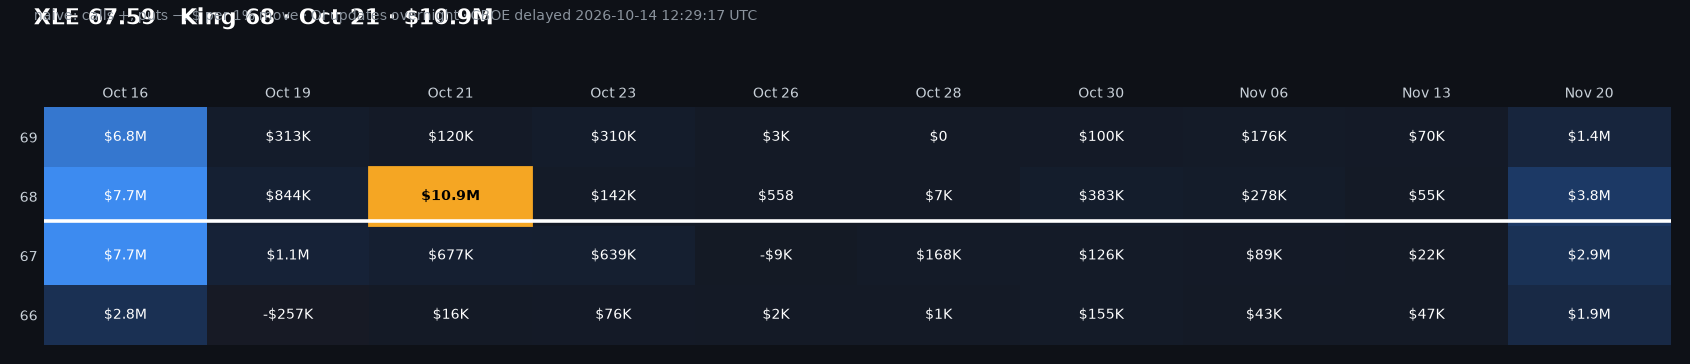
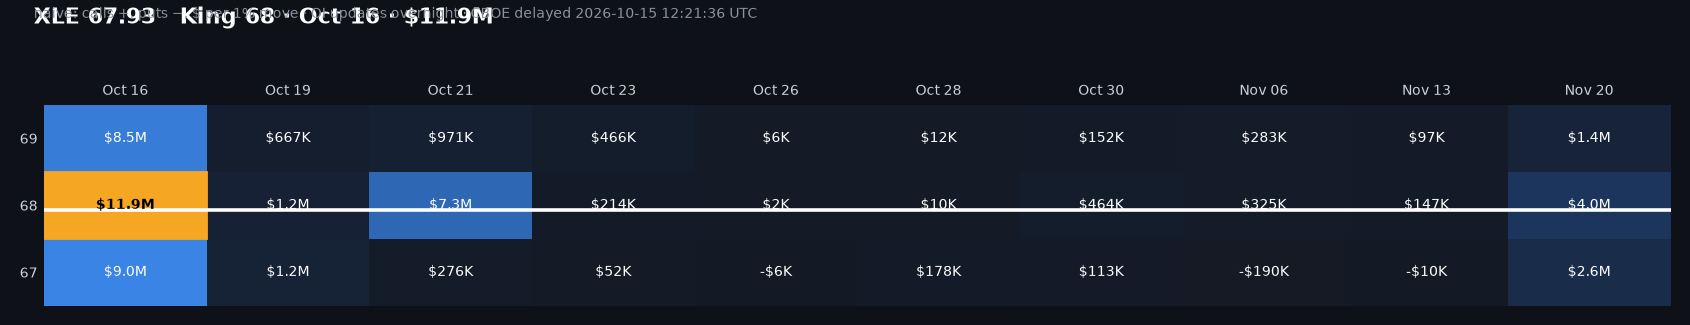
GEX 2026-10-15

diff --git a/index.html b/index.html
@@ -2,9 +2,9 @@
 <title>GEX dashboard</title><style>body{background:#0e1117;color:#c9d1d9;font:14px system-ui,sans-serif;margin:0;padding:12px;max-width:1100px;margin:auto}
 h1{font-size:20px;color:#fff}h3{color:#fff;margin:18px 0 6px}.s{overflow-x:auto}table{border-collapse:collapse;width:100%;font-size:13px}
 td,th{border-bottom:1px solid #222a36;padding:6px;text-align:left;white-space:nowrap}th{color:#8b949e}img{width:100%;border-radius:6px}small{color:#8b949e}</style></head><body>
-<h1>Dealer gamma (GEX) levels — 2026-10-14</h1><small>Run 2026-10-14T12:29:25+00:00 · free CBOE delayed quotes (~15 min) · open interest is prior-day · naive estimate (calls +, puts −). Not advice.</small>
-<h3>Key levels</h3><div class="s"><table><tr><th>Ticker</th><th>Spot</th><th>King (strike · exp · $)</th><th>Flip</th><th>Regime</th><th>Net GEX</th><th>Nearest expiry top +/− strikes</th></tr><tr><td><b>SPY</b></td><td>779.96</td><td>785 · 10-16 · $1.2B</td><td>777.62</td><td>above flip (dampening)</td><td>$3.3B</td><td>10-14: +780, 781, 779 / −776, 773, 771</td></tr><tr><td><b>QQQ</b></td><td>743.56</td><td>760 · 10-16 · $483.1M</td><td>746.69</td><td>below flip (amplifying)</td><td>-$65.3M</td><td>10-14: +750, 751, 748 / −735, 740, 739</td></tr><tr><td><b>IWM</b></td><td>277.18</td><td>275 · 10-16 · -$451.4M</td><td>281.46</td><td>below flip (amplifying)</td><td>-$2.2B</td><td>10-14: +280, 279, 278 / −275, 276, 274</td></tr><tr><td><b>SMH</b></td><td>583.20</td><td>590 · 10-23 · -$41.7M</td><td>–</td><td>–</td><td>-$187.7M</td><td>10-14: +595, 590 / −580, 575, 585</td></tr><tr><td><b>XLK</b></td><td>195.86</td><td>195 · 10-16 · $15.1M</td><td>195.82</td><td>above flip (dampening)</td><td>$17.8M</td><td>10-16: +195, 200, 198 / −192, 194, 196</td></tr><tr><td><b>XLE</b></td><td>67.59</td><td>68 · 10-21 · $10.9M</td><td>–</td><td>–</td><td>$66.7M</td><td>10-16: +67, 68, 66.5 / −–</td></tr><tr><td><b>XLF</b></td><td>54.80</td><td>54.5 · 10-16 · -$62.3M</td><td>54.8</td><td>below flip (amplifying)</td><td>-$69.4M</td><td>10-14: +55, 55.5, 56 / −54.5, 53.5</td></tr></table></div>
+<h1>Dealer gamma (GEX) levels — 2026-10-15</h1><small>Run 2026-10-15T12:31:29+00:00 · free CBOE delayed quotes (~15 min) · open interest is prior-day · naive estimate (calls +, puts −). Not advice.</small>
+<h3>Key levels</h3><div class="s"><table><tr><th>Ticker</th><th>Spot</th><th>King (strike · exp · $)</th><th>Flip</th><th>Regime</th><th>Net GEX</th><th>Nearest expiry top +/− strikes</th></tr><tr><td><b>SPY</b></td><td>767.13</td><td>772 · 10-16 · -$1.2B</td><td>770.39</td><td>below flip (amplifying)</td><td>-$4.1B</td><td>10-15: +772, 773, 775 / −768, 765, 766</td></tr><tr><td><b>QQQ</b></td><td>720.01</td><td>725 · 10-16 · -$234.0M</td><td>728.96</td><td>below flip (amplifying)</td><td>-$4.6B</td><td>10-15: +735, 732, 729 / −725, 720, 730</td></tr><tr><td><b>IWM</b></td><td>271.90</td><td>272 · 10-16 · -$426.4M</td><td>–</td><td>–</td><td>-$3.3B</td><td>10-15: +272, 276, 275 / −270, 269, 268</td></tr><tr><td><b>SMH</b></td><td>552.00</td><td>555 · 10-30 · -$74.9M</td><td>–</td><td>–</td><td>-$463.2M</td><td>10-15: +– / −545, 555, 550</td></tr><tr><td><b>XLK</b></td><td>186.99</td><td>190 · 11-20 · -$3.5M</td><td>187.07</td><td>below flip (amplifying)</td><td>-$19.4M</td><td>10-16: +187, 190 / −188, 189, 186</td></tr><tr><td><b>XLE</b></td><td>67.93</td><td>68 · 10-16 · $11.9M</td><td>–</td><td>–</td><td>$66.8M</td><td>10-16: +68, 67, 69 / −–</td></tr><tr><td><b>XLF</b></td><td>54.88</td><td>54.5 · 10-16 · -$82.4M</td><td>54.82</td><td>above flip (dampening)</td><td>-$82.2M</td><td>10-15: +54, 55, 55.5 / −54.5</td></tr></table></div>
 
 <h3>SPY</h3><a href="img/SPY_gex.png"><img src="img/SPY_gex.png" alt="SPY GEX heatmap"></a><h3>QQQ</h3><a href="img/QQQ_gex.png"><img src="img/QQQ_gex.png" alt="QQQ GEX heatmap"></a><h3>IWM</h3><a href="img/IWM_gex.png"><img src="img/IWM_gex.png" alt="IWM GEX heatmap"></a><h3>SMH</h3><a href="img/SMH_gex.png"><img src="img/SMH_gex.png" alt="SMH GEX heatmap"></a><h3>XLK</h3><a href="img/XLK_gex.png"><img src="img/XLK_gex.png" alt="XLK GEX heatmap"></a><h3>XLE</h3><a href="img/XLE_gex.png"><img src="img/XLE_gex.png" alt="XLE GEX heatmap"></a><h3>XLF</h3><a href="img/XLF_gex.png"><img src="img/XLF_gex.png" alt="XLF GEX heatmap"></a>
-<h3>History</h3><div class="s"><table><tr><th>Date</th><th>Ticker</th><th>Spot</th><th>King</th><th>Flip</th><th>Prev close</th><th>Prev range</th></tr><tr><td>2026-10-14</td><td>XLK</td><td>195.86</td><td>195.0 (10-16)</td><td>195.82</td><td>196.28</td><td>193.92–196.34</td></tr><tr><td>2026-10-14</td><td>XLF</td><td>54.8</td><td>54.5 (10-16)</td><td>54.8</td><td>54.82</td><td>54.64–55.65</td></tr><tr><td>2026-10-14</td><td>XLE</td><td>67.59</td><td>68.0 (10-21)</td><td></td><td>67.2</td><td>66.29–67.25</td></tr><tr><td>2026-10-14</td><td>SPY</td><td>779.96</td><td>785.0 (10-16)</td><td>777.62</td><td>778.01</td><td>775.95–778.75</td></tr><tr><td>2026-10-14</td><td>SMH</td><td>583.2</td><td>590.0 (10-23)</td><td></td><td>588.12</td><td>574.75–588.68</td></tr><tr><td>2026-10-14</td><td>QQQ</td><td>743.56</td><td>760.0 (10-16)</td><td>746.69</td><td>743.57</td><td>738.83–744.2</td></tr><tr><td>2026-10-14</td><td>IWM</td><td>277.18</td><td>275.0 (10-16)</td><td>281.46</td><td>276.7</td><td>275.47–278.7</td></tr><tr><td>2026-10-13</td><td>XLK</td><td>194.22</td><td>195.0 (10-16)</td><td>194.2</td><td>196.36</td><td>195.82–198.18</td></tr><tr><td>2026-10-13</td><td>XLF</td><td>55.45</td><td>54.5 (10-16)</td><td>55.65</td><td>55.05</td><td>54.83–55.17</td></tr><tr><td>2026-10-13</td><td>XLE</td><td>66.5114</td><td>67.0 (10-16)</td><td></td><td>66.01</td><td>65.67–66.42</td></tr><tr><td>2026-10-13</td><td>SPY</td><td>777.26</td><td>785.0 (10-16)</td><td>777.53</td><td>778.1</td><td>777.05–779.4</td></tr><tr><td>2026-10-13</td><td>SMH</td><td>578.9</td><td>590.0 (10-23)</td><td>565.04</td><td>590.99</td><td>589.22–598.45</td></tr><tr><td>2026-10-13</td><td>QQQ</td><td>740.07</td><td>750.0 (10-16)</td><td>744.0</td><td>746.04</td><td>744.85–749.79</td></tr><tr><td>2026-10-13</td><td>IWM</td><td>278.0869</td><td>275.0 (10-16)</td><td>282.0</td><td>277.9</td><td>277.79–279.14</td></tr></table></div>
+<h3>History</h3><div class="s"><table><tr><th>Date</th><th>Ticker</th><th>Spot</th><th>King</th><th>Flip</th><th>Prev close</th><th>Prev range</th></tr><tr><td>2026-10-15</td><td>XLK</td><td>186.99</td><td>190.0 (11-20)</td><td>187.07</td><td>190.43</td><td>189.73–194.66</td></tr><tr><td>2026-10-15</td><td>XLF</td><td>54.88</td><td>54.5 (10-16)</td><td>54.82</td><td>54.52</td><td>54.02–54.52</td></tr><tr><td>2026-10-15</td><td>XLE</td><td>67.93</td><td>68.0 (10-16)</td><td></td><td>67.63</td><td>67.12–67.72</td></tr><tr><td>2026-10-15</td><td>SPY</td><td>767.13</td><td>772.0 (10-16)</td><td>770.39</td><td>769.6</td><td>766.71–776.35</td></tr><tr><td>2026-10-15</td><td>SMH</td><td>552.0</td><td>555.0 (10-30)</td><td></td><td>564.74</td><td>563.12–580.08</td></tr><tr><td>2026-10-15</td><td>QQQ</td><td>720.01</td><td>725.0 (10-16)</td><td>728.96</td><td>728.95</td><td>726.39–740.53</td></tr><tr><td>2026-10-15</td><td>IWM</td><td>271.9</td><td>272.0 (10-16)</td><td></td><td>271.37</td><td>270.35–274.46</td></tr><tr><td>2026-10-14</td><td>XLK</td><td>195.86</td><td>195.0 (10-16)</td><td>195.82</td><td>196.28</td><td>193.92–196.34</td></tr><tr><td>2026-10-14</td><td>XLF</td><td>54.8</td><td>54.5 (10-16)</td><td>54.8</td><td>54.82</td><td>54.64–55.65</td></tr><tr><td>2026-10-14</td><td>XLE</td><td>67.59</td><td>68.0 (10-21)</td><td></td><td>67.2</td><td>66.29–67.25</td></tr><tr><td>2026-10-14</td><td>SPY</td><td>779.96</td><td>785.0 (10-16)</td><td>777.62</td><td>778.01</td><td>775.95–778.75</td></tr><tr><td>2026-10-14</td><td>SMH</td><td>583.2</td><td>590.0 (10-23)</td><td></td><td>588.12</td><td>574.75–588.68</td></tr><tr><td>2026-10-14</td><td>QQQ</td><td>743.56</td><td>760.0 (10-16)</td><td>746.69</td><td>743.57</td><td>738.83–744.2</td></tr><tr><td>2026-10-14</td><td>IWM</td><td>277.18</td><td>275.0 (10-16)</td><td>281.46</td><td>276.7</td><td>275.47–278.7</td></tr><tr><td>2026-10-13</td><td>XLK</td><td>194.22</td><td>195.0 (10-16)</td><td>194.2</td><td>196.36</td><td>195.82–198.18</td></tr><tr><td>2026-10-13</td><td>XLF</td><td>55.45</td><td>54.5 (10-16)</td><td>55.65</td><td>55.05</td><td>54.83–55.17</td></tr><tr><td>2026-10-13</td><td>XLE</td><td>66.5114</td><td>67.0 (10-16)</td><td></td><td>66.01</td><td>65.67–66.42</td></tr><tr><td>2026-10-13</td><td>SPY</td><td>777.26</td><td>785.0 (10-16)</td><td>777.53</td><td>778.1</td><td>777.05–779.4</td></tr><tr><td>2026-10-13</td><td>SMH</td><td>578.9</td><td>590.0 (10-23)</td><td>565.04</td><td>590.99</td><td>589.22–598.45</td></tr><tr><td>2026-10-13</td><td>QQQ</td><td>740.07</td><td>750.0 (10-16)</td><td>744.0</td><td>746.04</td><td>744.85–749.79</td></tr><tr><td>2026-10-13</td><td>IWM</td><td>278.0869</td><td>275.0 (10-16)</td><td>282.0</td><td>277.9</td><td>277.79–279.14</td></tr></table></div>
 </body></html>
